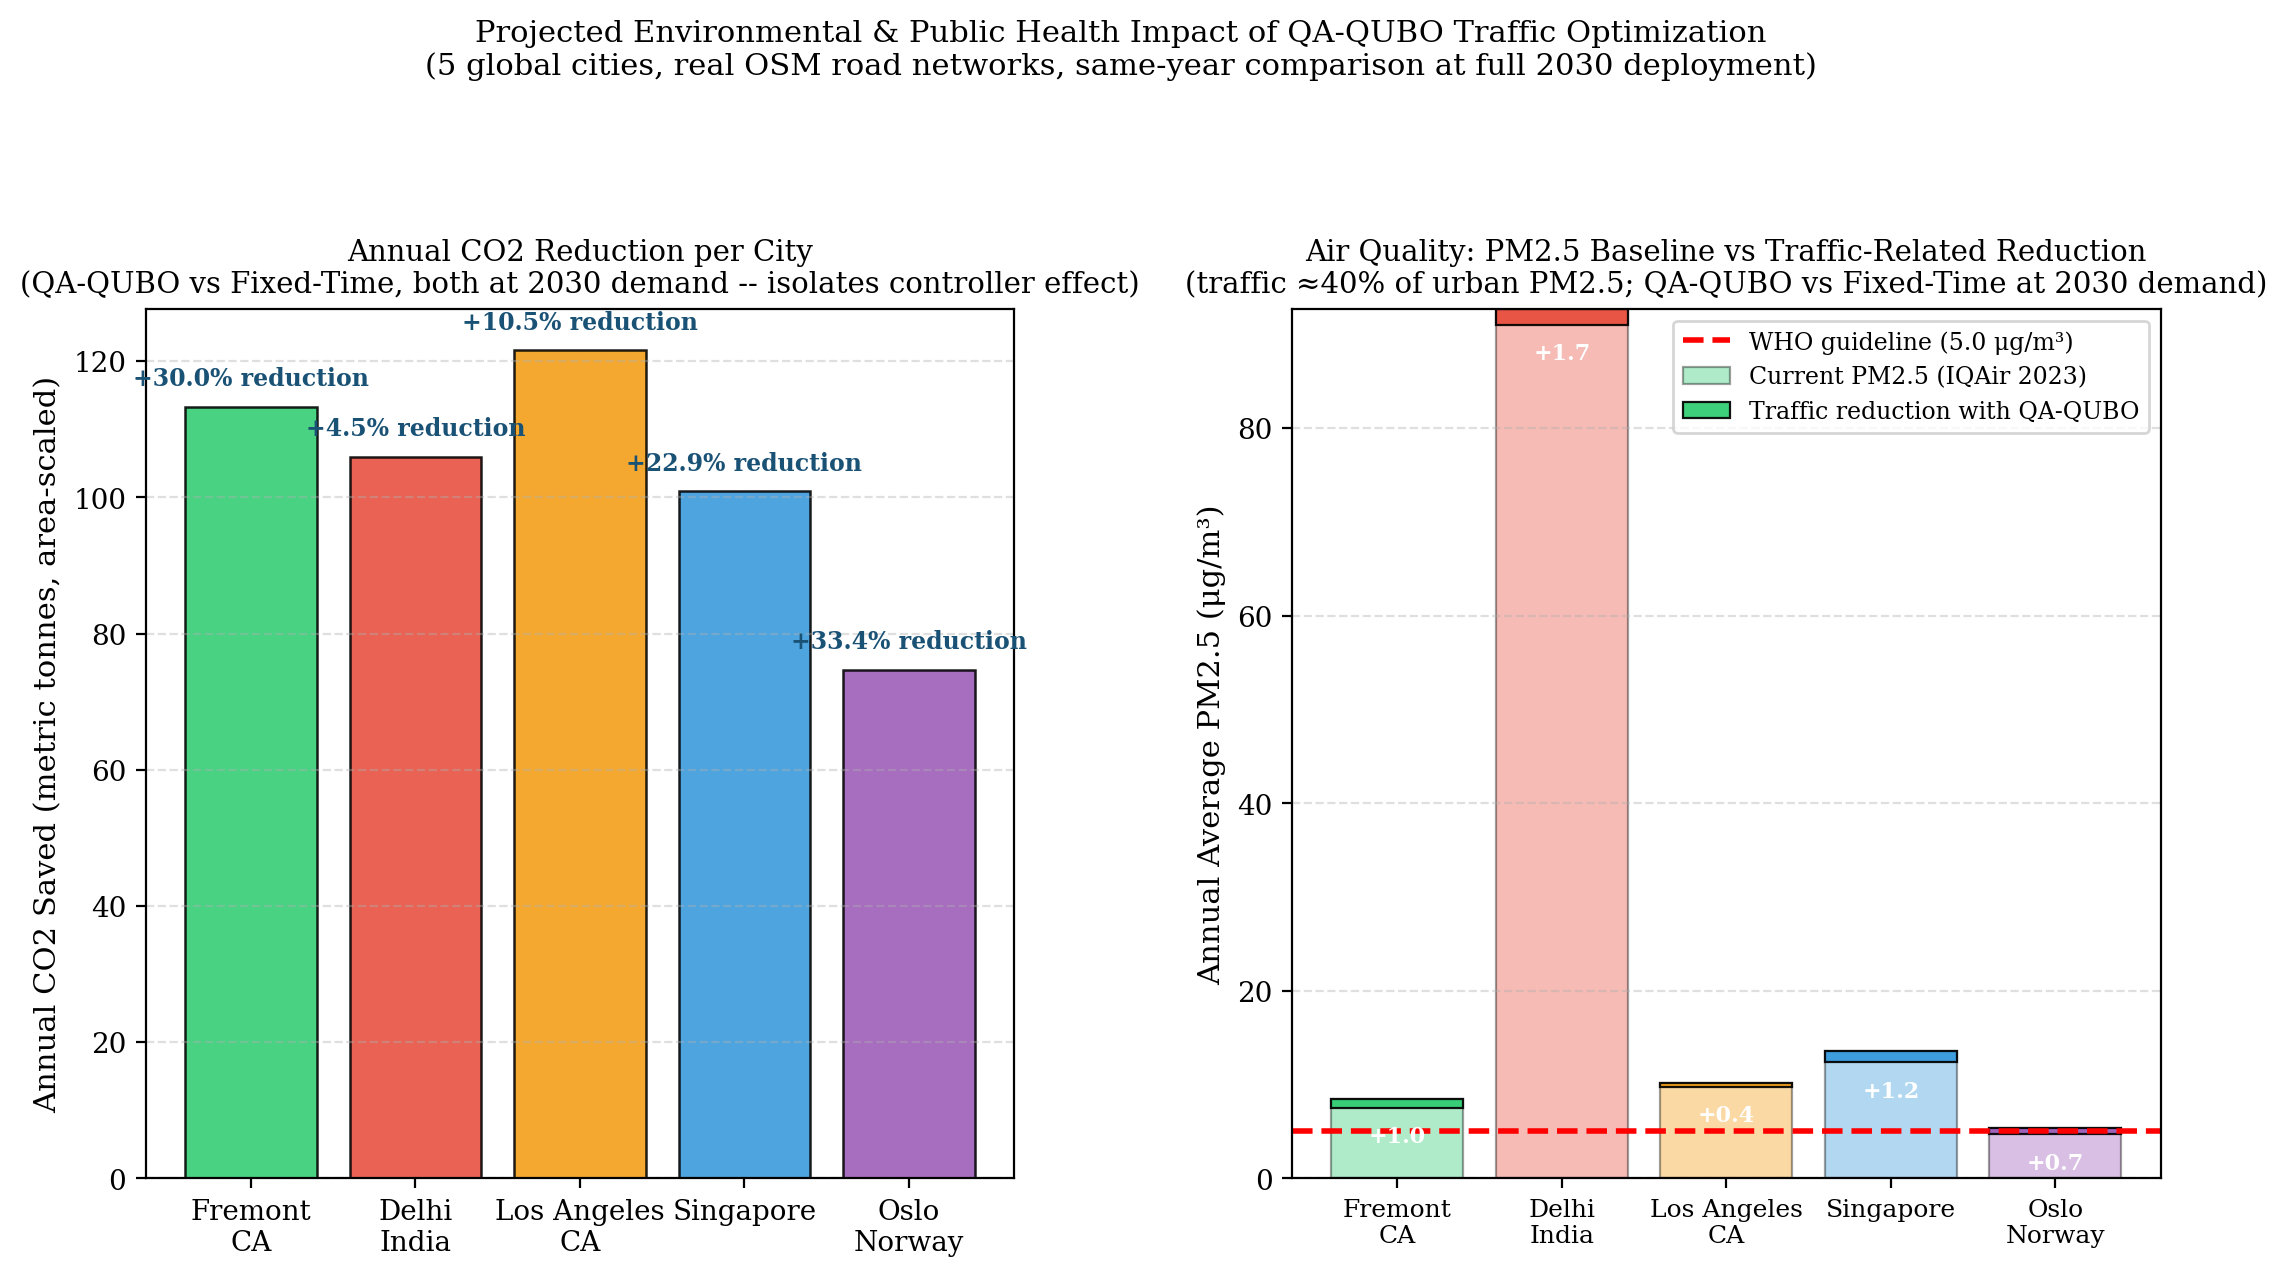
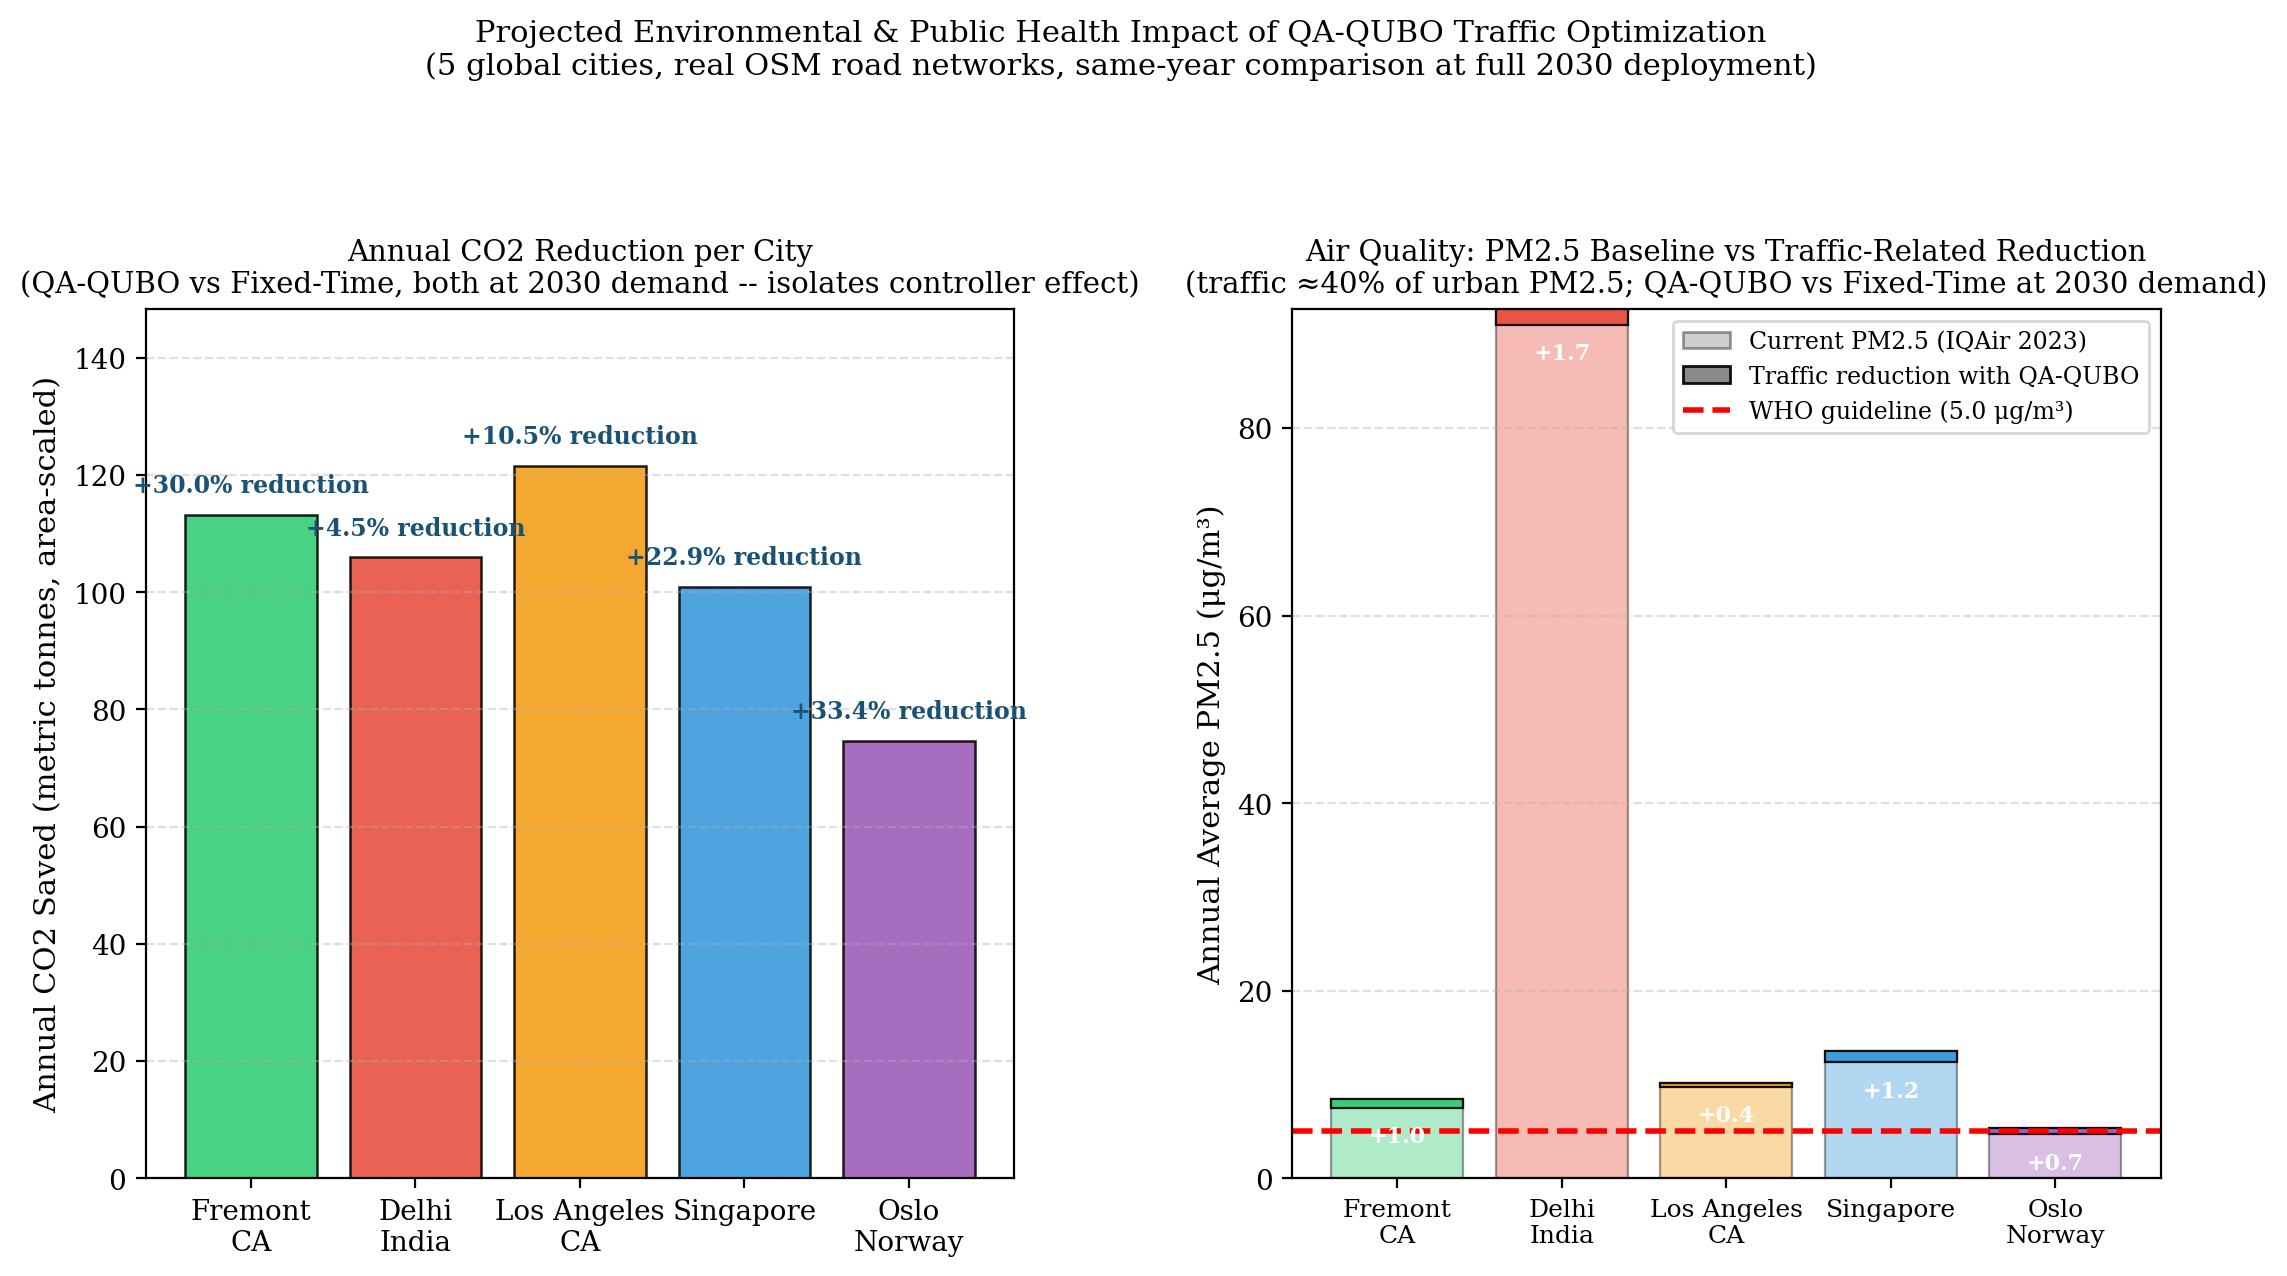
Fix fig11: label clipped against top frame, misleading legend colors
- Left panel's tallest bar's label had only 2% headroom above the y-axis
  max, so it visually clipped against the plot's top border -- added
  proper ylim headroom, same fix as fig2 used.
- Right panel's legend swatches were auto-generated from a per-city color
  list, so they showed one arbitrary city's color next to "Current PM2.5"
  and "Traffic reduction" -- implying a meaning that wasn't there, since
  every bar is actually colored by city already (see x-axis). Replaced
  with neutral gray proxy patches that represent the real distinction
  (pale vs. solid shading), not a color that happened to get picked.

diff --git a/real_city_sim.py b/real_city_sim.py
@@ -587,10 +587,12 @@ if __name__ == '__main__':
 
     bars = ax.bar(short_names, co2_saved, color=colors,
                   edgecolor='black', lw=0.9, alpha=0.88)
+    ax.set_ylim(0, max(co2_saved) * 1.22)
+    label_pad = ax.get_ylim()[1] * 0.02
     for bar, pct in zip(bars, pct_saved):
         sign = '+' if pct >= 0 else '-'
         ax.text(bar.get_x() + bar.get_width() / 2,
-                bar.get_height() + max(co2_saved) * 0.02,
+                bar.get_height() + label_pad,
                 f'{sign}{abs(pct):.1f}% reduction', ha='center', va='bottom',
                 fontsize=8.5, fontweight='bold', color='#1a5276')
 
@@ -611,13 +613,21 @@ if __name__ == '__main__':
                     for pm, pct in zip(pm25_base, pct_saved)]
 
     x_pos = np.arange(len(city_names))
-    ax.bar(x_pos, pm25_base, color=colors, edgecolor='black', lw=0.8, alpha=0.38,
-           label='Current PM2.5 (IQAir 2023)')
+    ax.bar(x_pos, pm25_base, color=colors, edgecolor='black', lw=0.8, alpha=0.38)
     ax.bar(x_pos, [-r for r in pm25_reduct], bottom=pm25_base, color=colors,
-           edgecolor='black', lw=0.8, alpha=0.92,
-           label='Traffic reduction with QA-QUBO')
+           edgecolor='black', lw=0.8, alpha=0.92)
     ax.axhline(WHO_LIMIT, color='red', lw=2.0, ls='--',
                label=f'WHO guideline ({WHO_LIMIT} \u03bcg/m\u00b3)')
+
+    # Bar color = city (see x-axis labels), not the legend category -- passing a
+    # per-city color list into ax.bar() with a label= made the legend swatch grab
+    # one arbitrary city's color, implying a meaning that wasn't there. Use
+    # neutral gray proxies that represent the actual distinction: pale vs solid.
+    legend_proxies = [
+        mpatches.Patch(facecolor='gray', edgecolor='black', alpha=0.38, label='Current PM2.5 (IQAir 2023)'),
+        mpatches.Patch(facecolor='gray', edgecolor='black', alpha=0.92, label='Traffic reduction with QA-QUBO'),
+        plt.Line2D([0], [0], color='red', lw=2.0, ls='--', label=f'WHO guideline ({WHO_LIMIT} \u03bcg/m\u00b3)'),
+    ]
 
     for i, (base, red) in enumerate(zip(pm25_base, pm25_reduct)):
         ax.text(x_pos[i], base - red - max(pm25_base) * 0.02,
@@ -631,7 +641,7 @@ if __name__ == '__main__':
         'Air Quality: PM2.5 Baseline vs Traffic-Related Reduction\n'
         '(traffic \u224840% of urban PM2.5; QA-QUBO vs Fixed-Time at 2030 demand)',
         fontsize=10.5)
-    ax.legend(fontsize=8.5, loc='upper right')
+    ax.legend(handles=legend_proxies, fontsize=8.5, loc='upper right')
     ax.grid(True, axis='y', ls='--', alpha=0.4)
 
     fig.suptitle(
